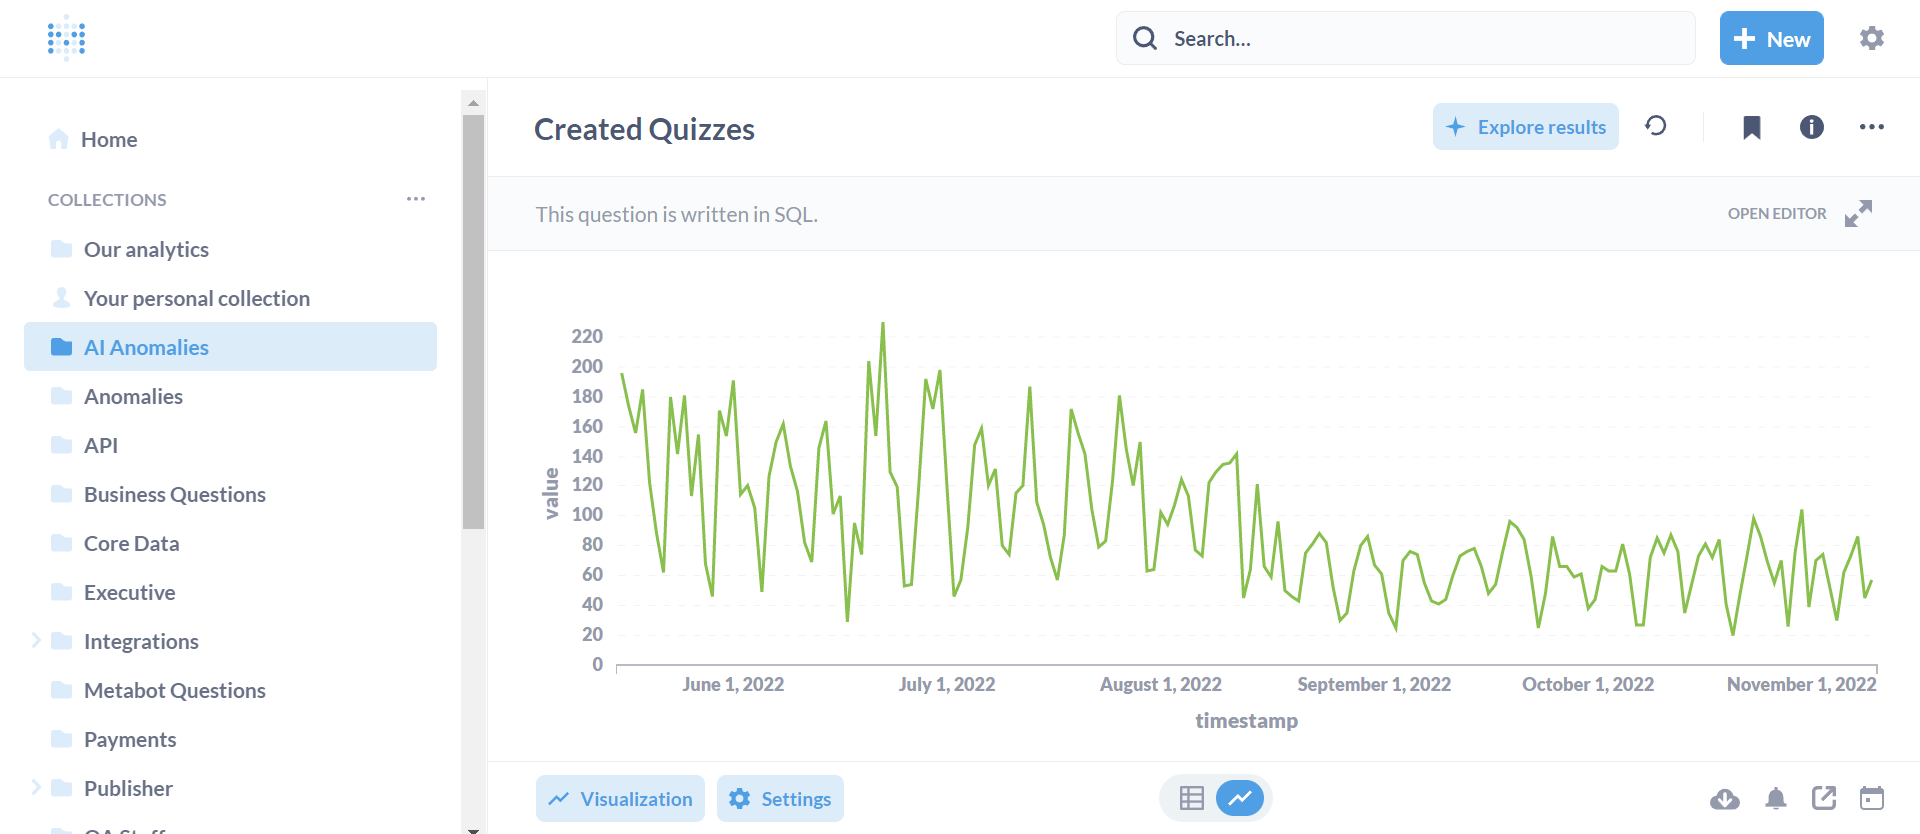
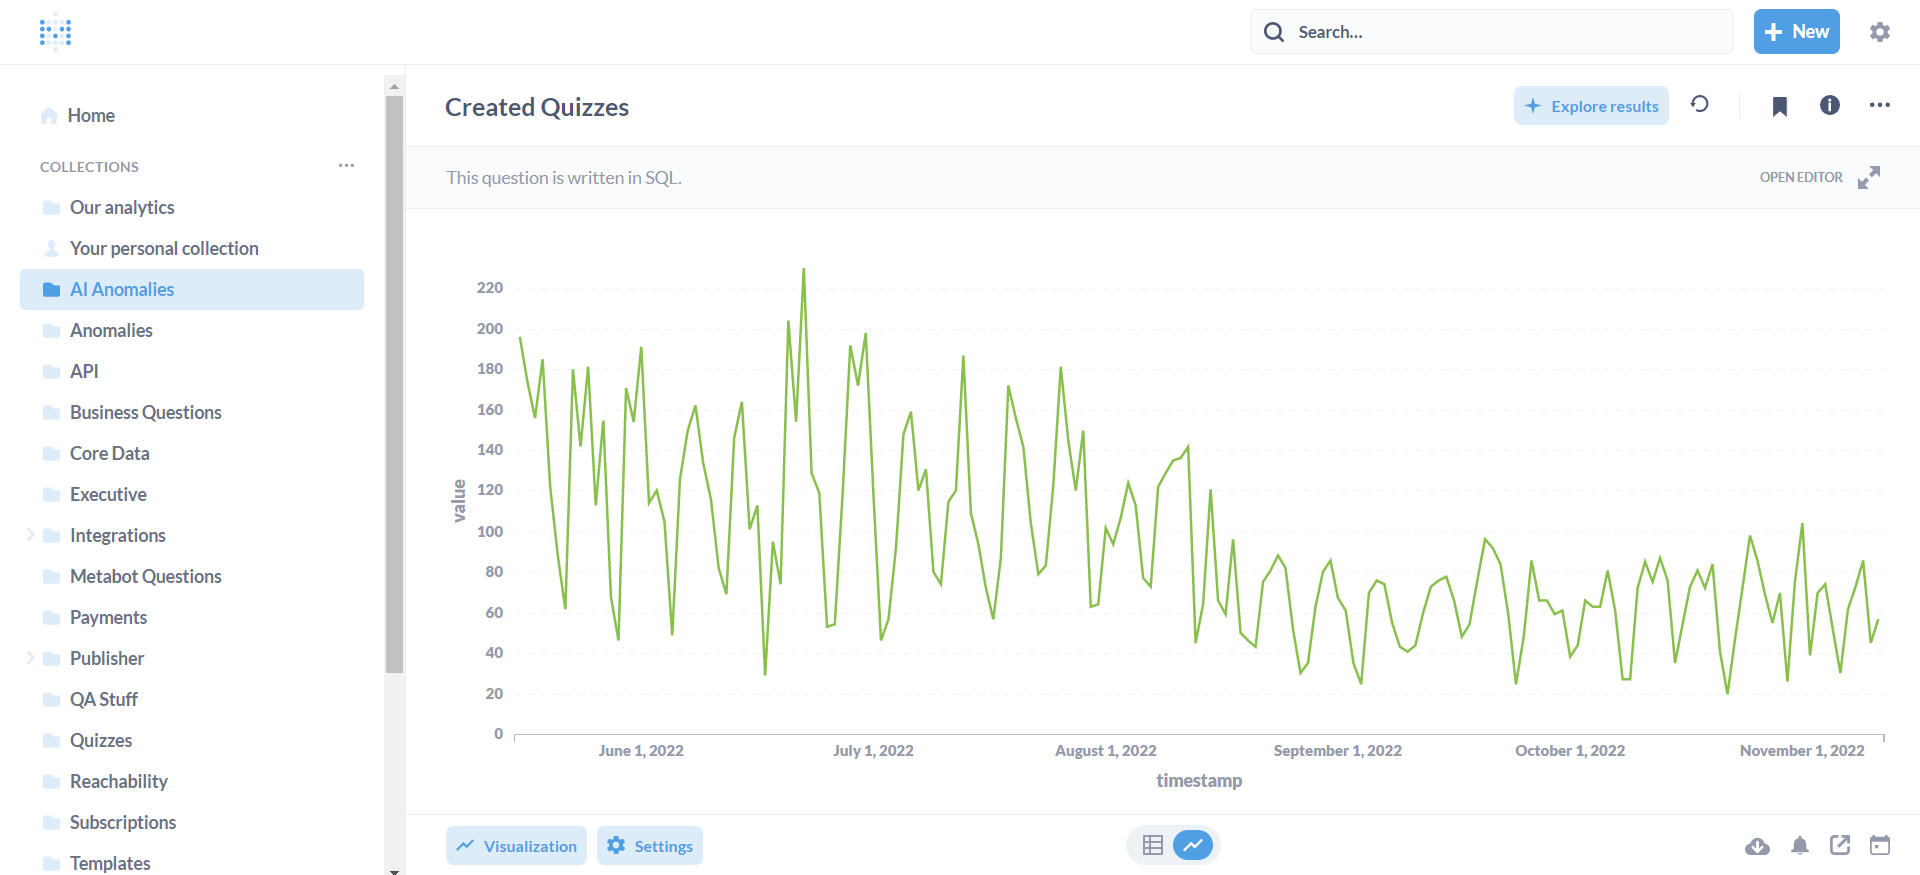
await_fix

diff --git a/metabase.js b/metabase.js
@@ -13,6 +13,7 @@ require('chromedriver')
 const chrome = require('selenium-webdriver/chrome')
 const g = require('get')
 let azureAnomaliesClient = new AnomalyDetectorClient(config.config.azureCognitiveServiceEndPoint, new AzureKeyCredential(config.config.azureCognitiveServiceApiKey));
+const fs = require('fs')
 
 
 
@@ -82,11 +83,11 @@ module.exports.collectAnnomalies = async function (sessionId, questionIds, quest
       for (const questionId of questionIds) {
         const uri = `https://analytics.tryinteract.io/api/card/${questionId}/query/json`
         // console.log(questions) 
-  
-  
-  
-  
-  
+
+
+
+
+
         const requestHeaders = {
           'X-Metabase-Session': sessionId,
           'Content-Type': 'application/json'
@@ -100,59 +101,59 @@ module.exports.collectAnnomalies = async function (sessionId, questionIds, quest
           series: data,
           granularity: KnownTimeGranularity.daily
         };
-  
-  
+
+
         let detectAnomaliesResult = await azureAnomaliesClient.detectEntireSeries(azureAnomaliesRequest);
         let isAnomalyDetected = detectAnomaliesResult.isAnomaly.some((changePoint) => changePoint);
         if (isAnomalyDetected) {
           detectAnomaliesResult.isAnomaly.forEach(async (changePoint, index) => {
-  
+
             if (changePoint === true) {
-              annomaliDetectedValues.push({ currentQuestionId: questionId, index: data[index],currentQuestionName:questionName })
-  
+              annomaliDetectedValues.push({ currentQuestionId: questionId, index: data[index], currentQuestionName: questionName })
+
             }
           });
         }
-  
+
         var filteredArray = annomaliDetectedValues.filter(function (obj) {
           return obj.currentQuestionId === questionId
         })
-  
-  
+
+
         let lastTwoValues = filteredArray.slice(-2)
-  
+
         for (let values of lastTwoValues) {
-  
-  
+
+
           let questionId = values.currentQuestionId
           let timeStamp = values.index.timestamp
           let detectedValues = values.index.value
-          let questionName=values.currentQuestionName
-  
-  
-  
-  
-  
-  
+          let questionName = values.currentQuestionName
+
+
+
+
+
+
           let payload = {
-  
+
             "channel": "#tryinteract",
             "username": "webhookbot",
             "text": ` Annomaly detected on question :${questionName}\n , by  :${timeStamp}\n where we had ${detectedValues}`
-  
+
           }
-  
-  
-  
-        //  await this.sendAnnomaliesToSlack(payload)
-  
+
+
+
+          //  await this.sendAnnomaliesToSlack(payload)
+
         }
-  
+
       }
 
     }
 
-    
+
 
   }
 
@@ -167,40 +168,50 @@ module.exports.collectAnnomalies = async function (sessionId, questionIds, quest
 
 
 
-module.exports.takescreenshots = async function (){
-  
+module.exports.takescreenshots = async function (questionIds) {
+
   const driver = new webdriver.Builder().forBrowser('chrome').build()
-  driver.manage().window().maximize() 
-try {
-   
-   const url = 'https://analytics.tryinteract.io/question/363/'
+  driver.manage().window().maximize()
+  try {
+
+    for (const questions of questionIds) {
+      const url = `https://analytics.tryinteract.io/question/${questions}/`
 
 
-   await driver.get(url)
-   await driver.findElement(By.xpath("//input[@placeholder='nicetoseeyou@email.com']")).sendKeys('vijaysudarsanam78@gmail.com')
-   await driver.sleep(3000)
+      await driver.get(url)
+      await driver.findElement(By.xpath("//input[@placeholder='nicetoseeyou@email.com']")).sendKeys('vijaysudarsanam78@gmail.com')
+      await driver.sleep(3000)
 
-   const password = 'farming002*'
+      const password = 'farming002*'
 
-   await driver.findElement(By.xpath("//input[@name='password']")).sendKeys(password)
-   await driver.sleep(3000)
+      await driver.findElement(By.xpath("//input[@name='password']")).sendKeys(password)
+      await driver.sleep(3000)
 
-   await driver.findElement(By.xpath("//input[@name='password']")).sendKeys(Key.ENTER)
-   await driver.sleep(10000)
-   
-   driver.takeScreenshot().then(
-    function(image, err) {
-        require('fs').writeFile('363.png', image, 'base64', function(err) {
-            console.log(err);
-        });
+      await driver.findElement(By.xpath("//input[@name='password']")).sendKeys(Key.ENTER)
+      await driver.sleep(10000)
+
+      let screenShot = await driver.takeScreenshot()
+      // let saveScreenshot=await screenSHot
+      let writeFile = await fs.writeFileSync(`${questions}.png`, screenShot, 'base64')
+      console.log(writeFile)
+
     }
-);
   }
-  
- catch(err){
-  console.log(err)
- }
+
+
+
+
+
+
+  catch (err) {
+    console.log(err)
+  }
+  finally {
+    await driver.quit()
+  }
 }
+
+
 module.exports.sendAnnomaliesToSlack = async function (payload) {
 
   try {

diff --git a/app.js b/app.js
@@ -33,12 +33,12 @@ app.get(['/', '/health'], function (req, res) {
 
 app.listen(port, async function () {
 
-  // let metabaseSessionId = await metabseCollection.getSessionId()
-  // let questionIds = await metabseCollection.getQuestionIds(metabaseSessionId)
+   let metabaseSessionId = await metabseCollection.getSessionId()
+   let {questionId,questionName} = await metabseCollection.getQuestionIds(metabaseSessionId)
   // // eslint-disable-next-line no-unused-vars
   // await metabseCollection.collectAnnomalies(metabaseSessionId, questionIds)
 
-     await metabseCollection.takescreenshots()
+     await metabseCollection.takescreenshots(questionId)
 
 
 
